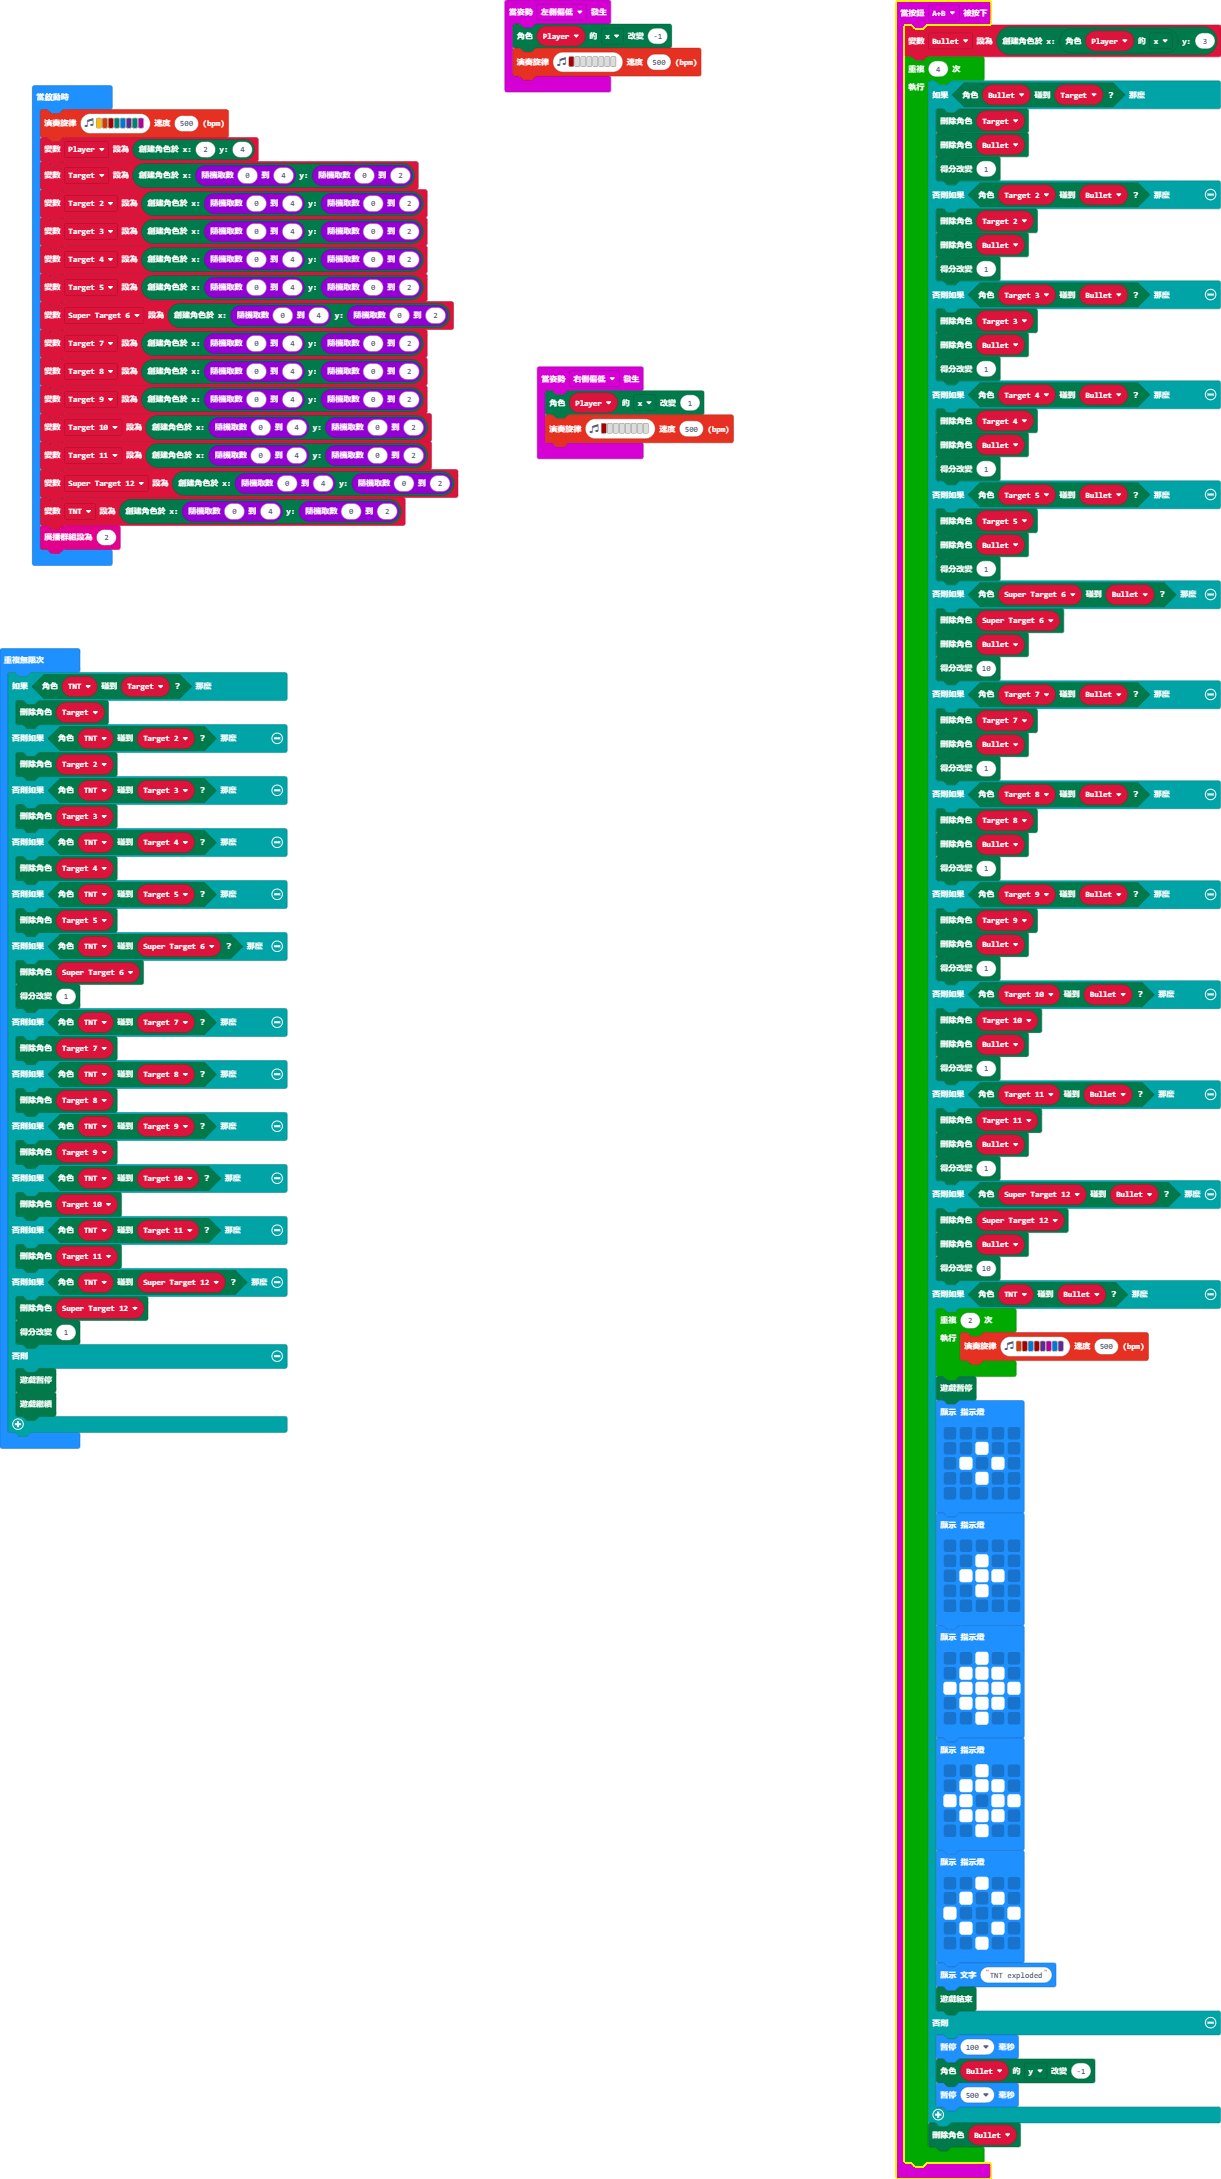
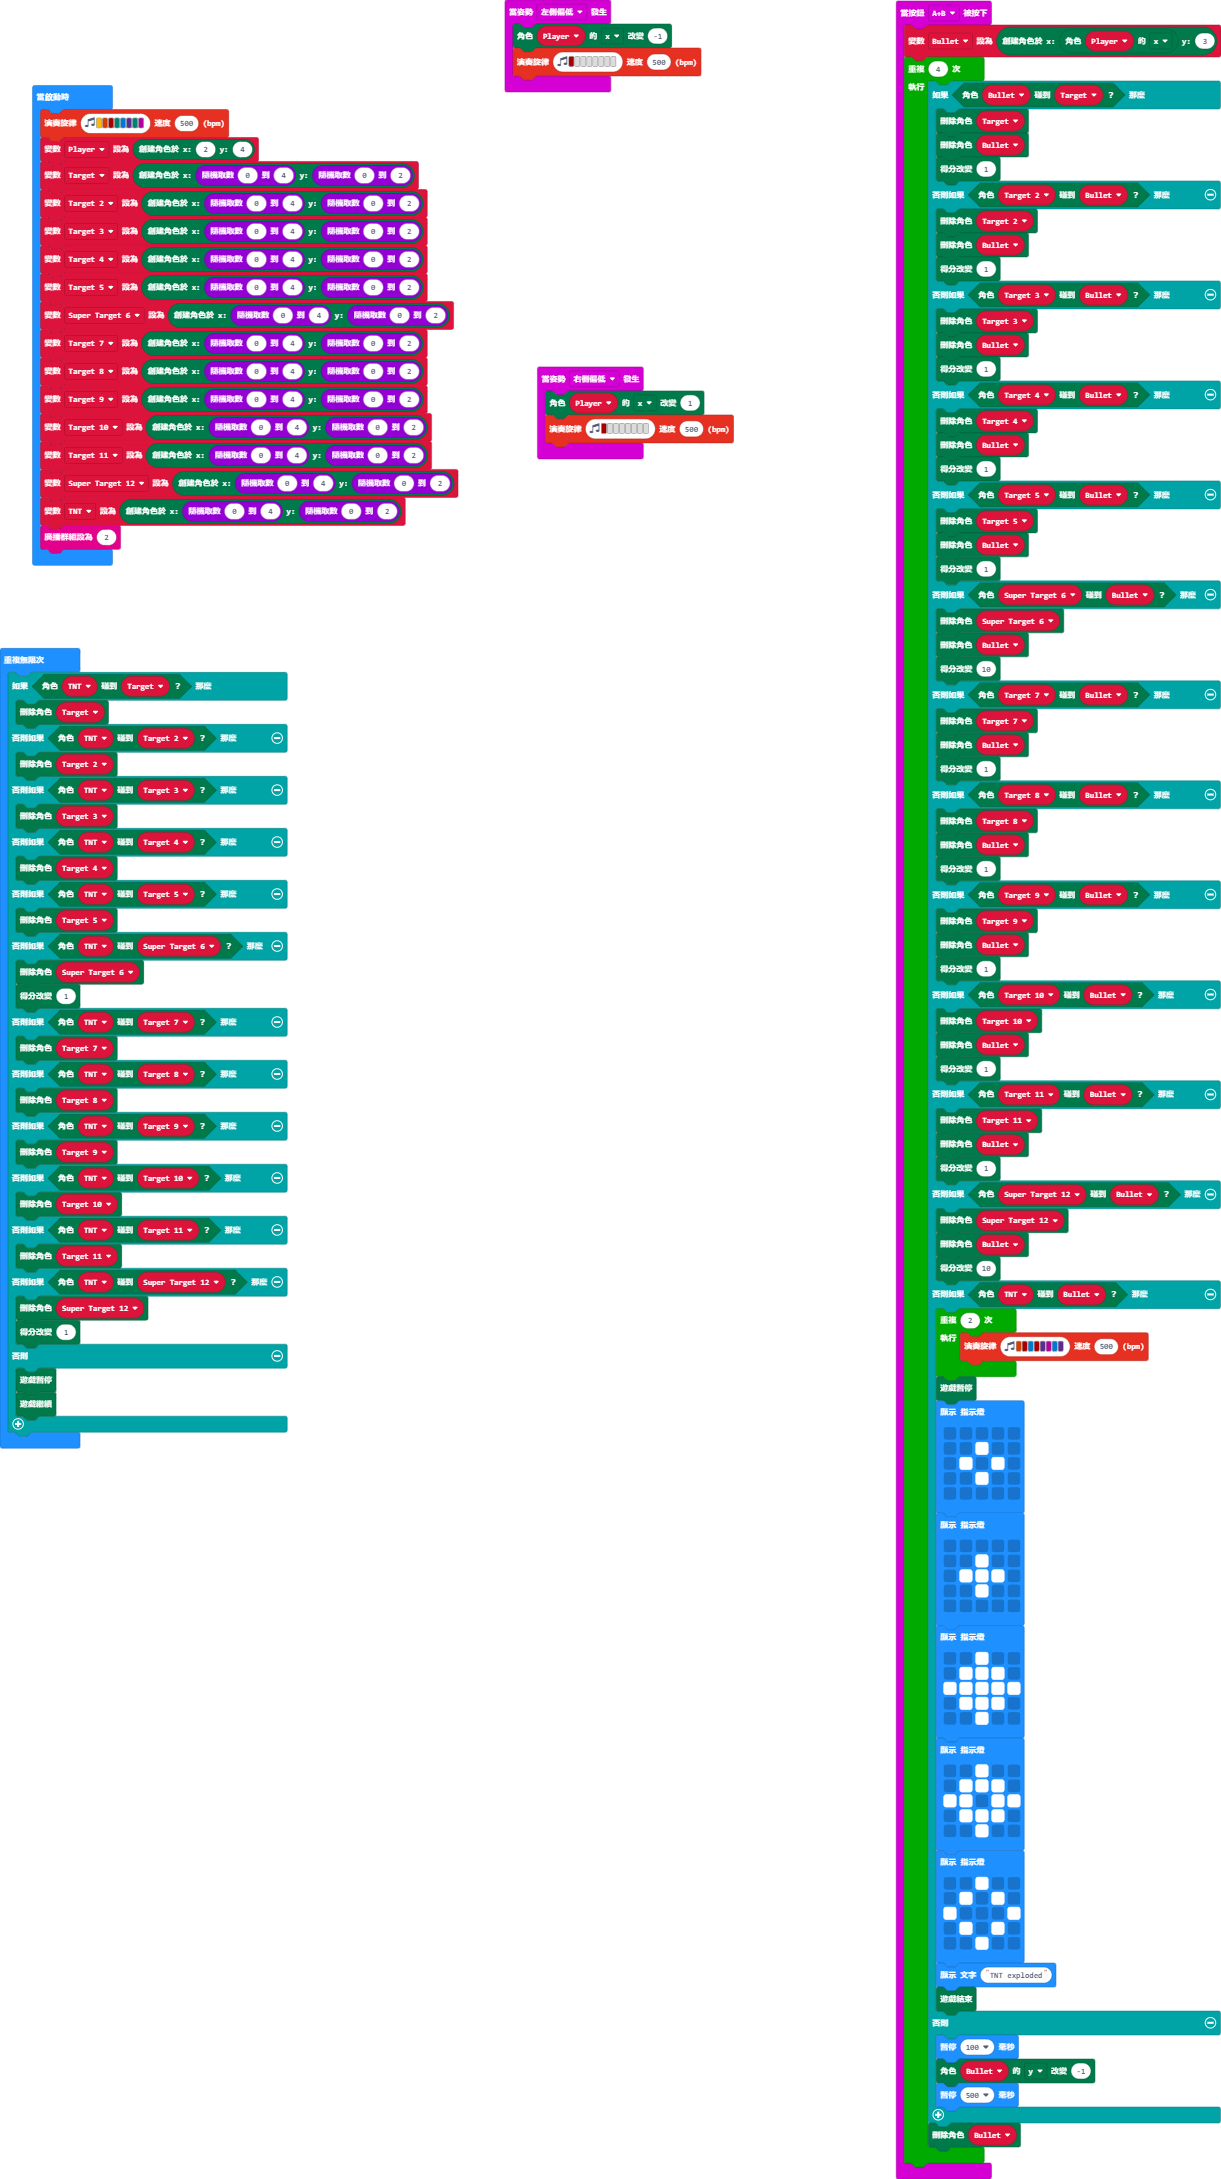
更新 main.blocks, main.py

diff --git a/main.py b/main.py
@@ -57,7 +57,8 @@ def on_button_pressed_ab():
             game.add_score(10)
         elif TNT.is_touching(Bullet):
             for index2 in range(2):
-                music.play_melody("C5 C5 C5 C5 C C C C ", 500)
+                music.play_melody("B C5 E C5 D C E D ", 500)
+            game.pause()
             basic.show_leds("""
                 . . . . .
                                 . . # . .
@@ -93,13 +94,13 @@ def on_button_pressed_ab():
                                 . # . # .
                                 . . # . .
             """)
-            basic.show_string("You shoot a TNT ")
+            basic.show_string("TNT exploded")
             game.game_over()
         else:
             basic.pause(100)
             Bullet.change(LedSpriteProperty.Y, -1)
             basic.pause(500)
-    Bullet.delete()
+        Bullet.delete()
 input.on_button_pressed(Button.AB, on_button_pressed_ab)
 
 def on_gesture_tilt_right():
@@ -137,3 +138,36 @@ Target_10 = game.create_sprite(randint(0, 4), randint(0, 2))
 Target_11 = game.create_sprite(randint(0, 4), randint(0, 2))
 Super_Target_12 = game.create_sprite(randint(0, 4), randint(0, 2))
 TNT = game.create_sprite(randint(0, 4), randint(0, 2))
+radio.set_group(2)
+
+def on_forever():
+    if TNT.is_touching(Target):
+        Target.delete()
+    elif TNT.is_touching(Target_2):
+        Target_2.delete()
+    elif TNT.is_touching(Target_3):
+        Target_3.delete()
+    elif TNT.is_touching(Target_4):
+        Target_4.delete()
+    elif TNT.is_touching(Target_5):
+        Target_5.delete()
+    elif TNT.is_touching(Super_Target_6):
+        Super_Target_6.delete()
+        game.add_score(1)
+    elif TNT.is_touching(Target_7):
+        Target_7.delete()
+    elif TNT.is_touching(Target_8):
+        Target_8.delete()
+    elif TNT.is_touching(Target_9):
+        Target_9.delete()
+    elif TNT.is_touching(Target_10):
+        Target_10.delete()
+    elif TNT.is_touching(Target_11):
+        Target_11.delete()
+    elif TNT.is_touching(Super_Target_12):
+        Super_Target_12.delete()
+        game.add_score(1)
+    else:
+        game.pause()
+        game.resume()
+basic.forever(on_forever)
